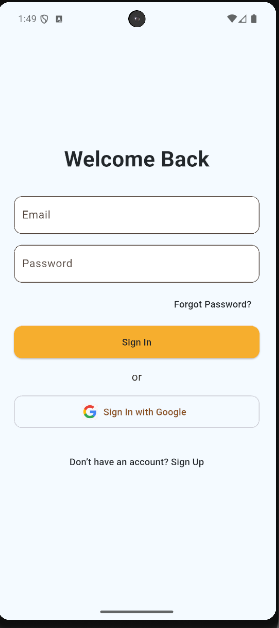
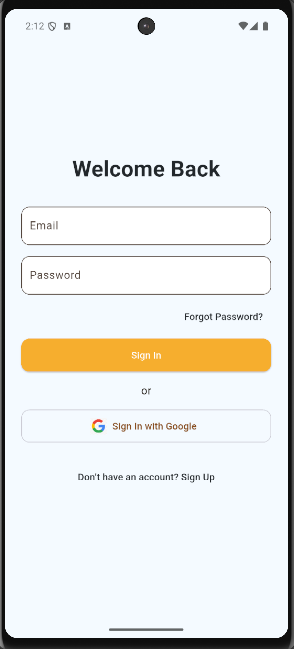
Update screenshots with latest UI changes

diff --git a/lib/view/auth/sign_in.dart b/lib/view/auth/sign_in.dart
@@ -48,7 +48,7 @@ class SignInPage extends StatelessWidget {
                 ElevatedButton(
                   style: ElevatedButton.styleFrom(
                     backgroundColor: Constant.yellow,
-                    foregroundColor: Constant.dark,
+                    foregroundColor: Constant.white,
                     minimumSize: const Size(double.infinity, 48),
                     shape: RoundedRectangleBorder(
                       borderRadius: BorderRadius.circular(12),

diff --git a/lib/view/auth/register.dart b/lib/view/auth/register.dart
@@ -44,7 +44,7 @@ class RegisterPage extends StatelessWidget {
                 const SizedBox(height: 32),
                 ElevatedButton(
                   style: ElevatedButton.styleFrom(
-                    backgroundColor: Constant.orange,
+                    backgroundColor: Constant.yellow,
                     foregroundColor: Constant.white,
                     minimumSize: const Size(double.infinity, 48),
                     shape: RoundedRectangleBorder(
